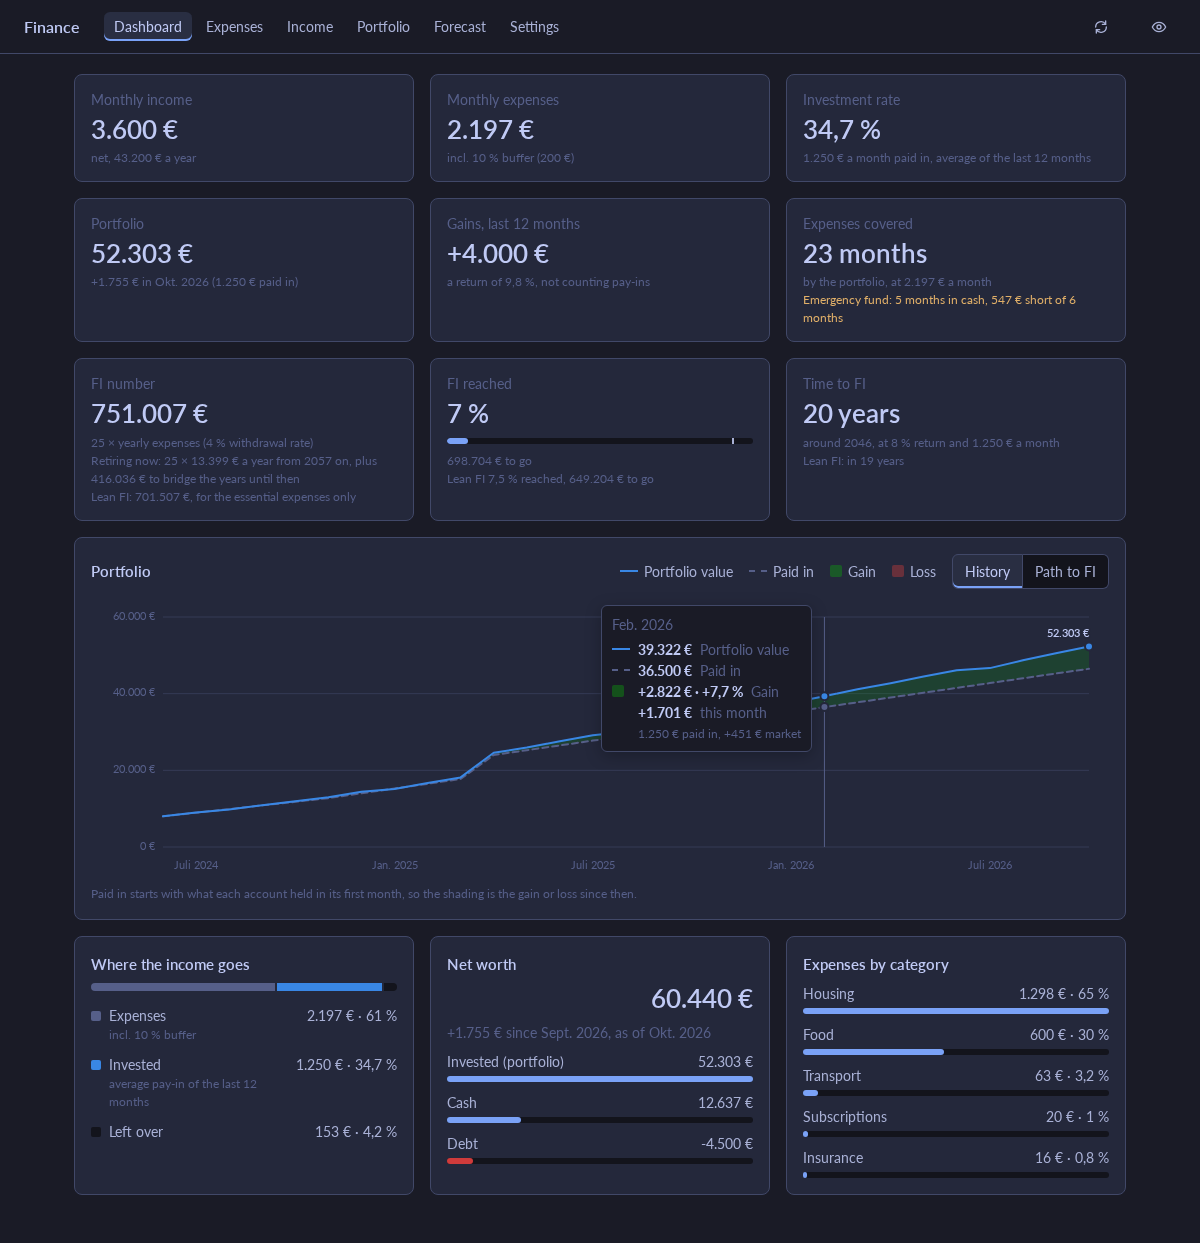
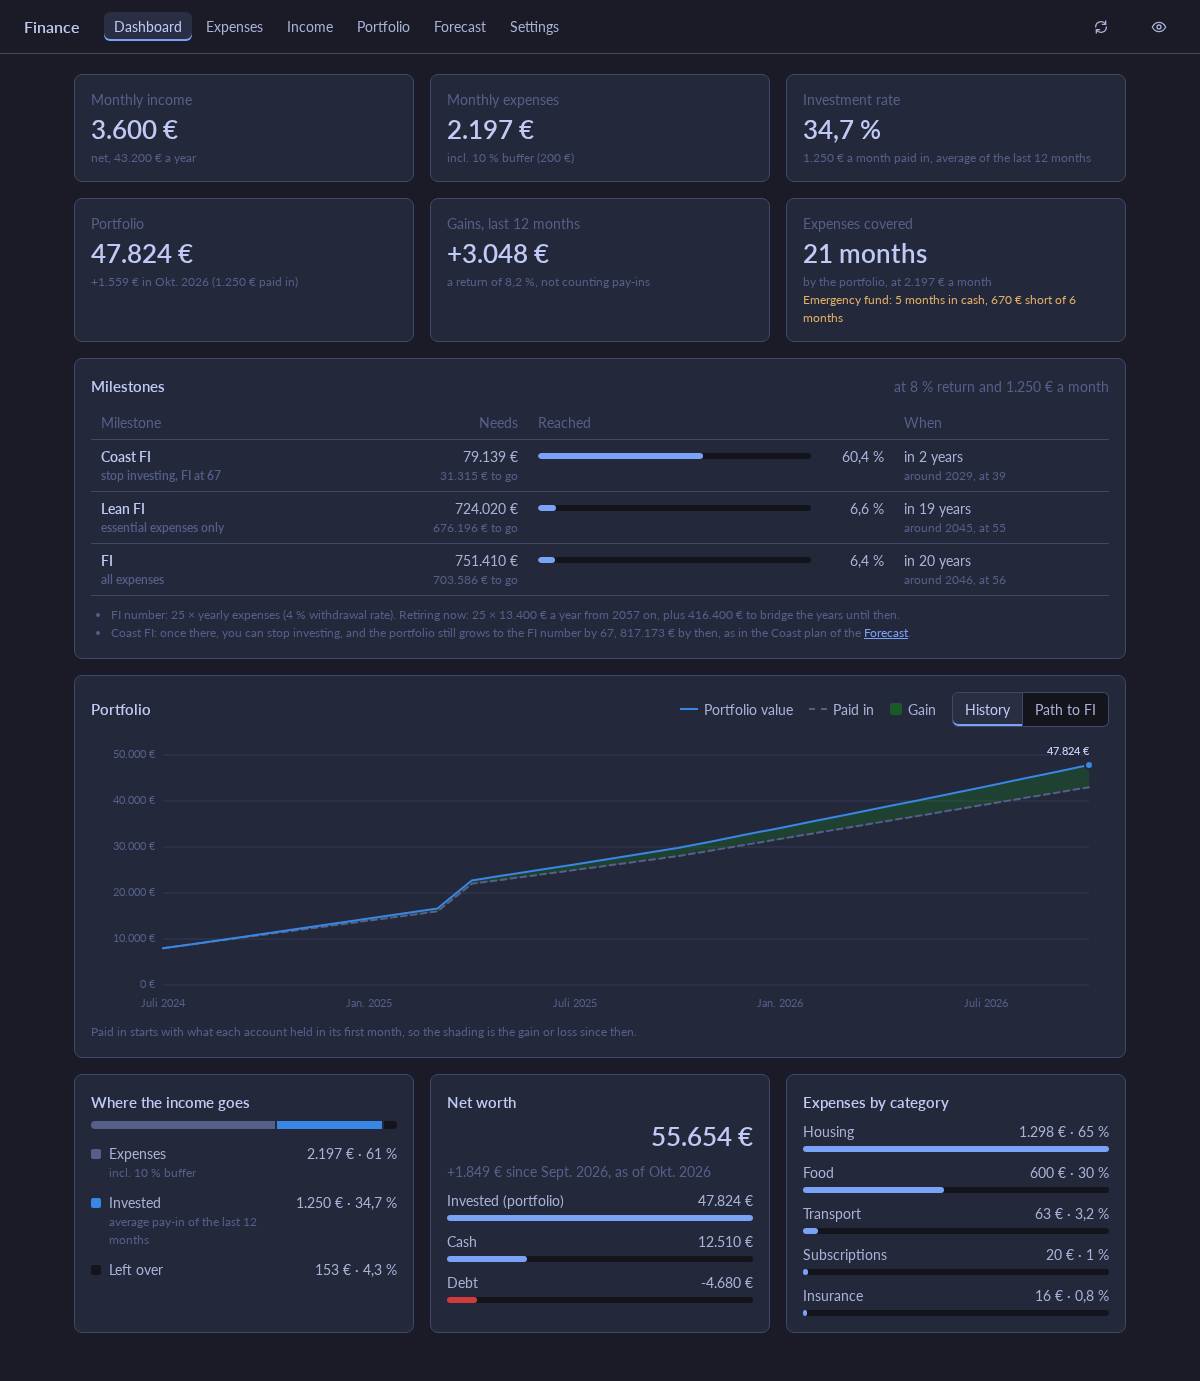
Show the milestones on the way to FI in one card, Coast FI with them
The FI number, FI reached and Time to FI tiles become one Milestones card
on the dashboard: Coast FI, Lean FI and FI, a row each in the order the
portfolio reaches them, with what each needs, how much of it the
portfolio has and when it gets there. Coast FI is the Forecast page's
Coast plan at the expected return (forecastParams is now shared, and
forecast() says what the portfolio needs for Coast FI at its start).

The checkboxes on the Expenses and Income pages are drawn in the text
color now, so Essential stands out in grey themes too.

diff --git a/app/style.css b/app/style.css
@@ -297,18 +297,39 @@ main > div {
   background: var(--accent);
 }
 
-.meter {
-  position: relative;
+/* Milestones on the dashboard: a row each, with a bar for how much of it
+   the portfolio has. */
+.milestones tbody th {
+  font-weight: 600;
 }
 
-/* Lean FI on the way to FI. */
-.meter-mark {
-  position: absolute;
-  top: 0;
-  bottom: 0;
-  width: 2px;
-  margin-left: -1px;
-  background: var(--fg);
+.milestones td.reach {
+  width: 36%;
+}
+
+.reach-row {
+  display: flex;
+  align-items: center;
+  gap: 10px;
+}
+
+.reach-row .meter {
+  flex: 1;
+  min-width: 40px;
+  margin: 0;
+}
+
+.reach-row .num {
+  min-width: 4.5em;
+}
+
+.milestones tr.reached .meter-fill {
+  background: var(--fg-strong);
+}
+
+.milestones .notes {
+  margin-top: 10px;
+  font-size: 12px;
 }
 
 /* ---- category bars */
@@ -863,10 +884,49 @@ label {
   gap: 8px;
 }
 
-.item-form .check input {
-  width: auto;
+/* Checkboxes drawn here, so they stand out in every theme, grey ones too:
+   a box in the text color, filled with a tick when checked. */
+.check {
+  color: var(--fg);
+}
+
+.check input[type="checkbox"] {
+  appearance: none;
+  flex: none;
+  display: grid;
+  place-content: center;
+  width: 18px;
+  height: 18px;
   margin: 0;
-  accent-color: var(--accent);
+  padding: 0;
+  border: 2px solid var(--fg);
+  border-radius: 4px;
+  background: var(--sunken);
+  cursor: pointer;
+}
+
+.check input[type="checkbox"]::before {
+  content: "";
+  width: 9px;
+  height: 5px;
+  margin-top: -3px;
+  border: solid var(--sunken);
+  border-width: 0 0 2px 2px;
+  transform: rotate(-45deg);
+  visibility: hidden;
+}
+
+.check input[type="checkbox"]:checked {
+  border-color: var(--fg-strong);
+  background: var(--fg-strong);
+}
+
+.check input[type="checkbox"]:checked::before {
+  visibility: visible;
+}
+
+.check input[type="checkbox"]:focus-visible {
+  outline-offset: 2px;
 }
 
 .badge {
@@ -1241,11 +1301,6 @@ table.entry th {
   flex-direction: row;
   align-items: center;
   gap: 8px;
-}
-
-.helper-form .check input {
-  margin: 0;
-  accent-color: var(--accent);
 }
 
 .helper-result {

diff --git a/README.md b/README.md
@@ -86,8 +86,9 @@ The data file stays.
 
 ## Use
 
-- **Dashboard**: the numbers on the way to FI, the portfolio's history or
-  its path to FI, the net worth, and where the income goes. See
+- **Dashboard**: the numbers on the way to FI, the milestones (Coast FI,
+  Lean FI and FI), the portfolio's history or its path to FI, the net
+  worth, and where the income goes. See
   [Dashboard numbers](#dashboard-numbers).
 - **Expenses** and **Income**: regular payments, from now or a month to
   come, until they end. See [Expenses and income](#expenses-and-income).
@@ -233,10 +234,6 @@ from the middle of their month.
 | Portfolio | Sum of the invested accounts in the latest month, and its change since the month before |
 | Gains, last 12 months | Change in portfolio value over the last 12 months minus the pay-ins and one-offs. The return is that gain ÷ (the value 12 months ago + each pay-in and one-off for the part of the 12 months it was invested, from the middle of its month) |
 | Expenses covered | Portfolio ÷ monthly expenses: how long it would pay for them. Under it, the emergency fund: the latest values of the cash accounts ÷ monthly expenses, and how much is missing to the months set in Settings |
-| FI number | What the portfolio would need when retiring now. What it pays a month: the expenses that count then, plus the buffer, less the income that does. Once nothing starts or ends any more, that amount × 12 ÷ withdrawal rate (× 25 at 4 %); until then, what it pays on top of that, month by month, such as bridging the years until a pension starts. Never more than the highest monthly amount × 12 ÷ withdrawal rate. Without starts and ends: monthly expenses × 12 ÷ withdrawal rate |
-| FI reached | Portfolio ÷ FI number |
-| Time to FI | Months until the portfolio reaches the FI number of that month (for retiring then): from the latest month it grows by the expected return (compounded monthly) and gets the average monthly pay-in each month, while the FI number rises by the inflation. Years from two years on; nothing beyond 100 years |
-| Lean FI | The same three for the essential expenses only, with the buffer: the FI number for a lean budget, how much of it the portfolio reaches, and in how long. Shown under the FI numbers once an active expense is essential; the bar under FI reached marks it |
 
 With less than 12 months of history, the average uses the months there
 are, and so do the gains, from the first month on.
@@ -244,6 +241,27 @@ are, and so do the gains, from the first month on.
 When last month has no values yet, the Portfolio tile says so ("Okt. 2026
 not entered yet", or how many months are missing) and links to the first
 month without values.
+
+**Milestones** lists the milestones on the way to FI, in the order the
+portfolio reaches them. Each says what the portfolio needs (and how much
+is still to go), how much of it the portfolio has, and when it gets there,
+with your age then.
+
+| Milestone | Needs |
+| --- | --- |
+| FI | The FI number: what the portfolio would need when retiring now. What it pays a month: the expenses that count then, plus the buffer, less the income that does. Once nothing starts or ends any more, that amount × 12 ÷ withdrawal rate (× 25 at 4 %); until then, what it pays on top of that, month by month, such as bridging the years until a pension starts. Never more than the highest monthly amount × 12 ÷ withdrawal rate. Without starts and ends: monthly expenses × 12 ÷ withdrawal rate |
+| Lean FI | The same for the essential expenses only, with the buffer: the FI number for a lean budget. Shown once an active expense is essential |
+| Coast FI | What the portfolio needs now to grow to the FI number by the retirement age without another pay-in, at the expected return and with the planned one-offs: as the Coast plan on the Forecast page counts it. Shown with a year of birth, until retirement |
+
+How much it has is the portfolio ÷ what it needs. When, for FI and Lean
+FI, is Time to FI: the months until the portfolio reaches the FI number of
+that month (for retiring then). From the latest month it grows by the
+expected return (compounded monthly) and gets the average monthly pay-in
+each month, while the FI number rises by the inflation. Years from two
+years on; nothing beyond 100 years. For Coast FI, it is the first month
+from which the portfolio, with the same pay-ins until then and none after,
+grows to the FI number by the retirement age: the month the Forecast page's
+Coast tile names, for the average pay-in and nothing after Coast FI.
 
 The **Portfolio** chart has two views; the one picked last stays picked.
 
